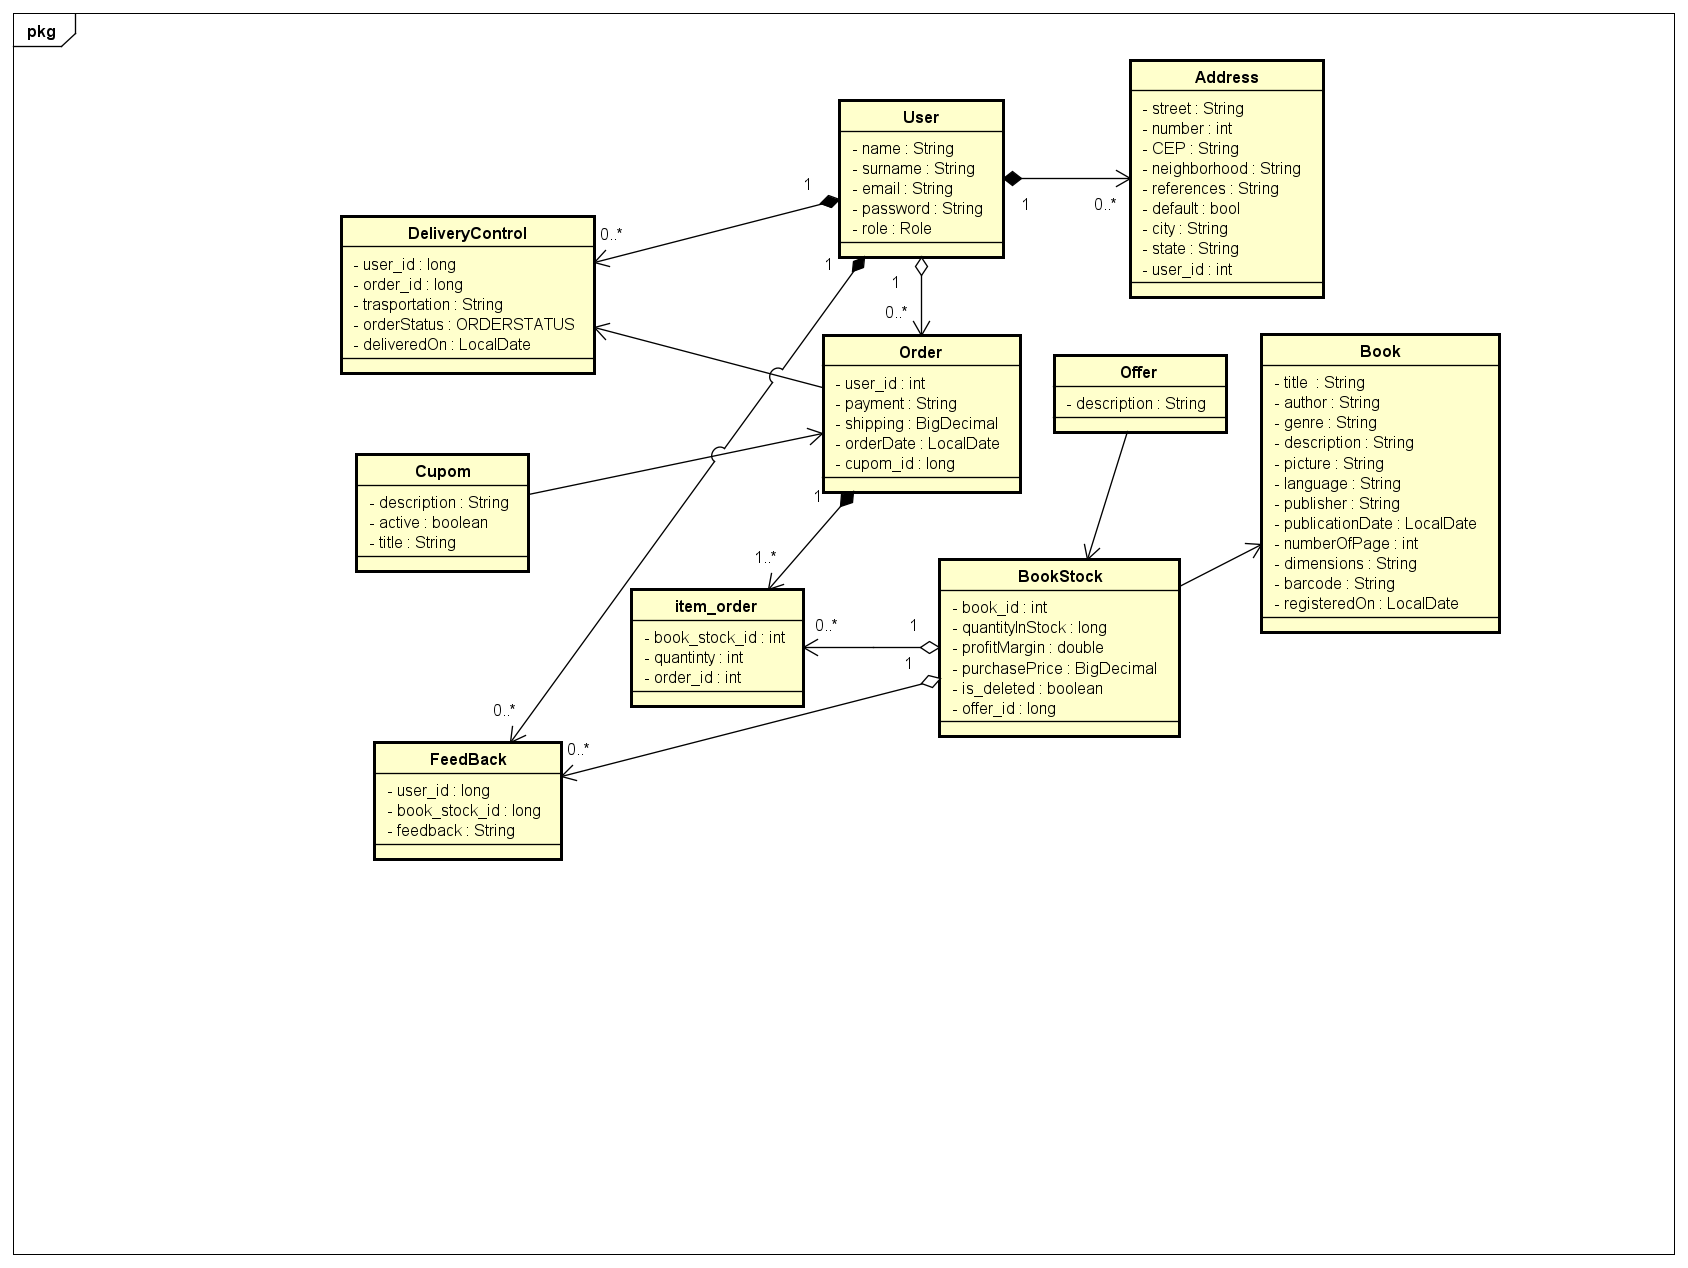
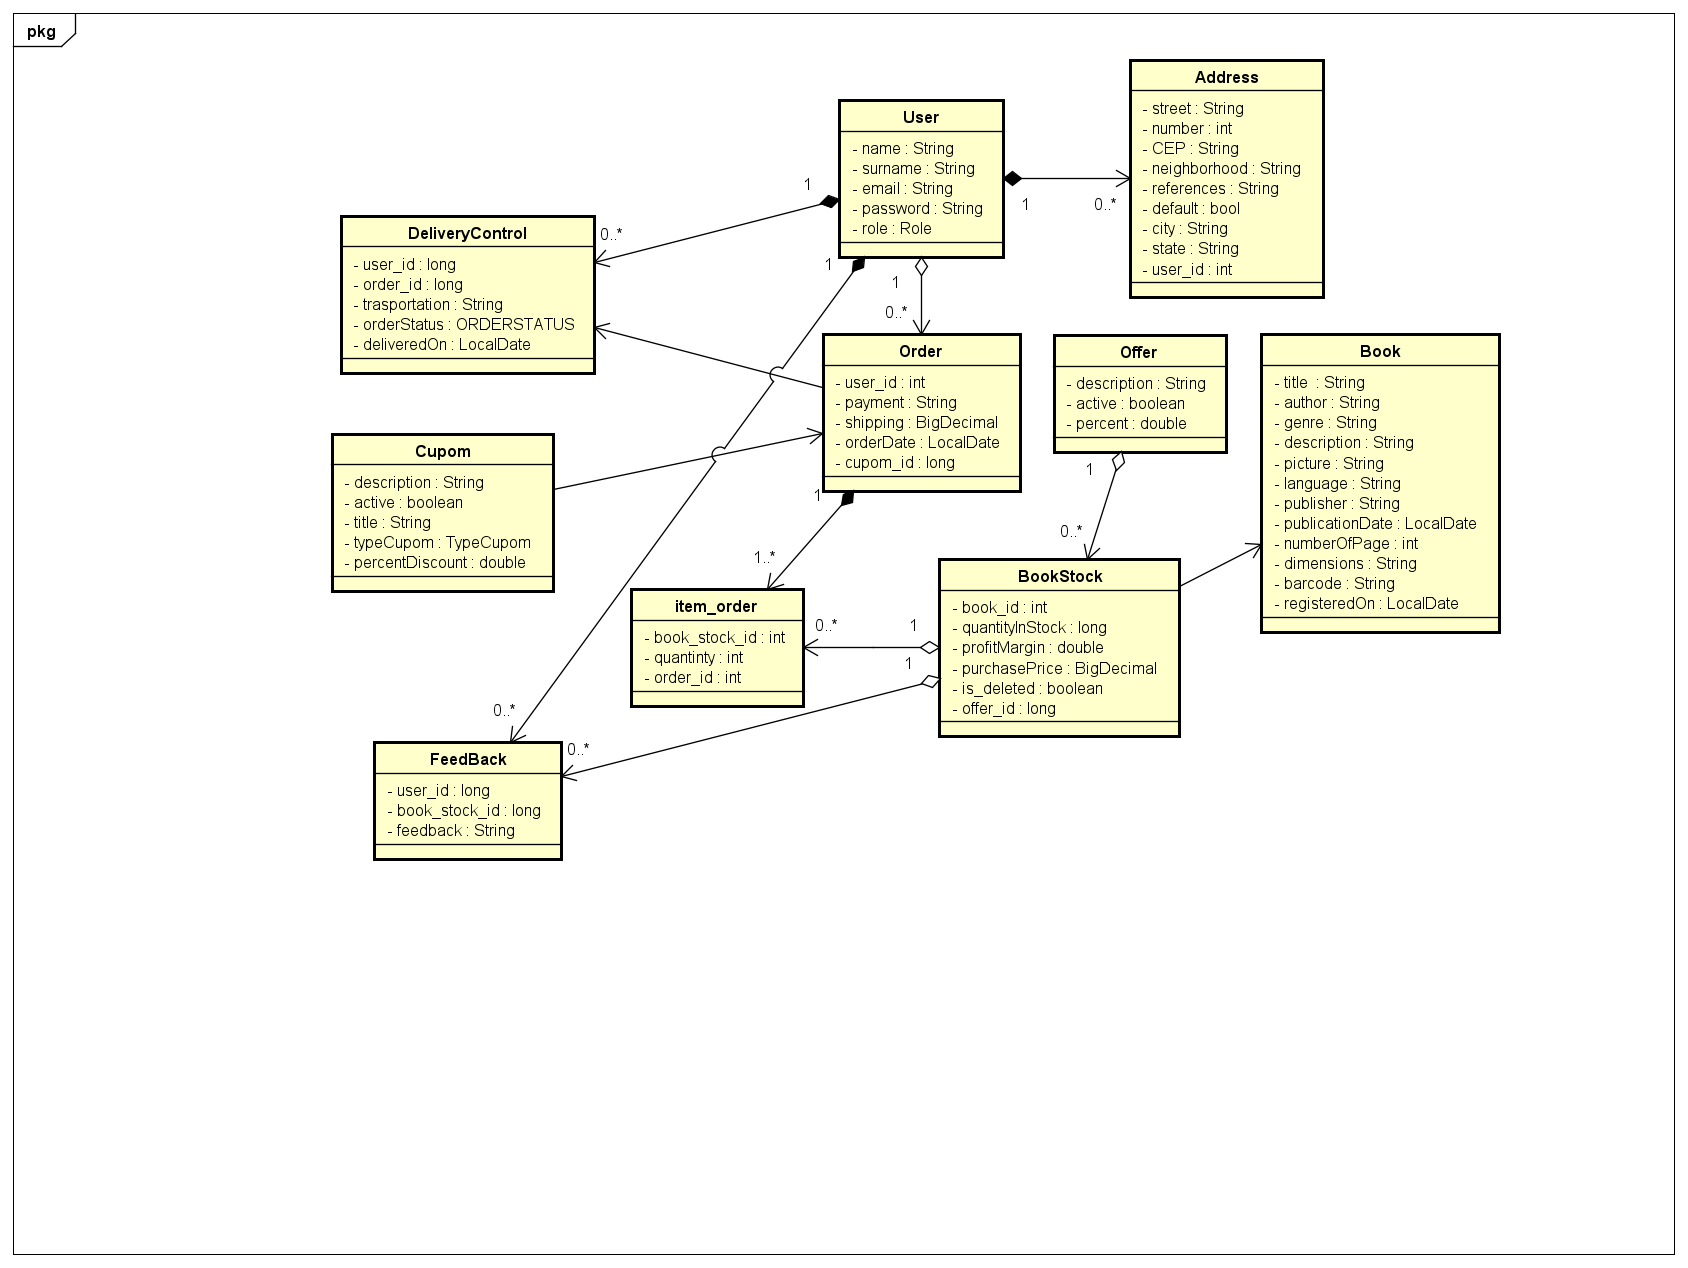
Mvp back end finalized

diff --git a/src/main/java/com/renigomes/api_livraria/purchase_order/service/OrderService.java b/src/main/java/com/renigomes/api_livraria/purchase_order/service/OrderService.java
@@ -8,6 +8,7 @@ import com.renigomes.api_livraria.cupom.enums.TypeCupom;
 import com.renigomes.api_livraria.cupom.model.Cupom;
 import com.renigomes.api_livraria.cupom.service.CupomService;
 import com.renigomes.api_livraria.purchase_order.DTO.ItemOrderRespDto;
+import com.renigomes.api_livraria.purchase_order.DTO.OfferOrderRespDto;
 import com.renigomes.api_livraria.purchase_order.DTO.OrderReqDTO;
 import com.renigomes.api_livraria.purchase_order.DTO.OrderRespDto;
 import com.renigomes.api_livraria.purchase_order.exceptions.ItemOrderException;
@@ -59,10 +60,18 @@ public class OrderService {
                                                     BigDecimal.valueOf(item.getBookStock().getProfitMargin())
                                             )
                                     ));
+                            bookRespOrderDto.setOfferOrderRespDto(item.getBookStock().getOffer() == null?
+                                    null:modelMapper.map(item.getBookStock().getOffer(), OfferOrderRespDto.class));
                             return new ItemOrderRespDto(
                                     bookRespOrderDto,
                                     item.getQuantity(),
                                     calculateSubTotal(item)
+                                            .subtract(
+                                                    item.getBookStock().getOffer() == null?
+                                                            BigDecimal.ZERO: BigDecimal.valueOf(
+                                                                    item.getBookStock().getOffer().getPercent()
+                                                    ).multiply(calculateSubTotal(item))
+                                            )
                             );
                         }
                 ).toList();
@@ -74,7 +83,8 @@ public class OrderService {
                 .map(ItemOrderRespDto::getSubTotalItem)
                 .reduce(BigDecimal.ZERO, BigDecimal::add)
                 .add(purOrder.getShipping().subtract(
-                        purOrder.getCupom().getTypeCupom() != TypeCupom.SHIPPING ?
+                        purOrder.getCupom()==null?BigDecimal.ZERO:
+                                purOrder.getCupom().getTypeCupom() != TypeCupom.SHIPPING ?
                                 BigDecimal.ZERO :
                                 purOrder.getShipping().multiply(
                                         BigDecimal.valueOf(purOrder.getCupom().getPercentDiscount())
@@ -143,7 +153,7 @@ public class OrderService {
                                 )
 
                 ));
-        orderRespDto.setCupom(new OrderCupomRespDto(purchaseOrder.getCupom().getCodeCupom()));
+        orderRespDto.setCupom(purchaseOrder.getCupom()==null?null:new OrderCupomRespDto(purchaseOrder.getCupom().getCodeCupom()));
         return orderRespDto;
     }
 

diff --git a/src/main/java/com/renigomes/api_livraria/book/service/BookStockService.java b/src/main/java/com/renigomes/api_livraria/book/service/BookStockService.java
@@ -3,7 +3,9 @@ package com.renigomes.api_livraria.book.service;
 import com.renigomes.api_livraria.DTO.RespIdDto;
 import com.renigomes.api_livraria.book.component.BookComponent;
 import com.renigomes.api_livraria.book.dto.BookRespDto;
+import com.renigomes.api_livraria.book.dto.BookStockRespAdminDTO;
 import com.renigomes.api_livraria.book.dto.BookStockRespUserDto;
+import com.renigomes.api_livraria.book.exception.BookOfferInative;
 import com.renigomes.api_livraria.book.exception.NotFoundException;
 import com.renigomes.api_livraria.book.model.Book;
 import com.renigomes.api_livraria.book.repository.BookRepository;
@@ -11,6 +13,8 @@ import com.renigomes.api_livraria.book.dto.BookStockReqDto;
 import com.renigomes.api_livraria.book.exception.UniqueTitleError;
 import com.renigomes.api_livraria.book.model.BookStock;
 import com.renigomes.api_livraria.book.repository.BookStockRepository;
+import com.renigomes.api_livraria.offer.model.Offer;
+import com.renigomes.api_livraria.offer.service.OfferService;
 import com.renigomes.api_livraria.user.component.UserComponent;
 import com.renigomes.api_livraria.user.enums.Role;
 import com.renigomes.api_livraria.user.model.User;
@@ -40,6 +44,7 @@ public class BookStockService {
     private BookRepository bookRepository;
     private BookStockRepository bookStockRepository;
     private UserComponent userComponent;
+    private OfferService offerService;
 
     private static NotFoundException get() {
         log.error(BOOK_OUT_OF_STOCK);
@@ -111,5 +116,20 @@ public class BookStockService {
                 .orElseThrow(BookStockService::get);
         bookStock.setDeleted(true);
         return bookStockRepository.save(bookStock);
+    }
+
+    @Transactional
+    public BookStockRespAdminDTO addOffer(Long offerId, long id_book_stock) {
+        Offer offer = offerService.findById(offerId);
+        BookStock bookStock = bookStockRepository.findById(id_book_stock).orElseThrow(
+                BookStockService::get
+        );
+        if (!offer.getActive())
+            throw new BookOfferInative("Offer not active!", HttpStatus.CONFLICT);
+        bookStock.setOffer(offer);
+        bookStock = bookStockRepository.save(bookStock);
+        BookStockRespAdminDTO bookStockRespAdminDTO = modelMapper.map(bookStock, BookStockRespAdminDTO.class);
+        bookStockRespAdminDTO.setBook(modelMapper.map(bookStock.getBook(), BookRespDto.class));
+        return bookStockRespAdminDTO;
     }
 }

diff --git a/src/main/java/com/renigomes/api_livraria/offer/service/OfferService.java b/src/main/java/com/renigomes/api_livraria/offer/service/OfferService.java
@@ -1,0 +1,58 @@
+package com.renigomes.api_livraria.offer.service;
+
+import com.renigomes.api_livraria.offer.DTO.OfferReqDto;
+import com.renigomes.api_livraria.offer.DTO.OfferRespDto;
+import com.renigomes.api_livraria.offer.exceptions.OfferNotFoundException;
+import com.renigomes.api_livraria.offer.model.Offer;
+import com.renigomes.api_livraria.offer.repository.OfferRepository;
+import lombok.AllArgsConstructor;
+import lombok.extern.slf4j.Slf4j;
+import org.modelmapper.ModelMapper;
+import org.springframework.http.HttpStatus;
+import org.springframework.stereotype.Service;
+import org.springframework.transaction.annotation.Transactional;
+
+import java.util.List;
+
+@Service
+@AllArgsConstructor
+@Slf4j
+public class OfferService {
+
+    private final ModelMapper modelMapper;
+    private final OfferRepository offerRepository;
+
+    @Transactional
+    public OfferRespDto save(OfferReqDto offerReqDto) {
+        Offer offer = modelMapper.map(offerReqDto, Offer.class);
+        offer = offerRepository.save(offer);
+        return modelMapper.map(offer, OfferRespDto.class);
+    }
+
+    @Transactional
+    public OfferRespDto setActive(Long offerId) {
+        Offer offer = offerRepository.findById(offerId).orElseThrow(
+                () -> {
+                    log.error("Offer not found !");
+                    return new OfferNotFoundException("Offer not found !", HttpStatus.NOT_FOUND);
+                }
+        );
+        offer.setActive(!offer.getActive());
+        return modelMapper.map(offer, OfferRespDto.class);
+    }
+
+    public List<OfferRespDto> findAll(){
+        List<Offer> offers = offerRepository.findAll();
+        return offers
+                .stream()
+                .map(offer -> modelMapper.map(offer, OfferRespDto.class))
+                .toList();
+    }
+
+    public Offer findById(Long id) {
+        return offerRepository.findById(id).orElseThrow( () ->{
+                log.error("Offer not found !");
+                return new OfferNotFoundException("Offer not found !", HttpStatus.NOT_FOUND);}
+        );
+    }
+}

diff --git a/src/main/java/com/renigomes/api_livraria/offer/controller/OfferController.java b/src/main/java/com/renigomes/api_livraria/offer/controller/OfferController.java
@@ -1,0 +1,56 @@
+package com.renigomes.api_livraria.offer.controller;
+
+import com.renigomes.api_livraria.offer.DTO.OfferReqDto;
+import com.renigomes.api_livraria.offer.DTO.OfferRespDto;
+import com.renigomes.api_livraria.offer.service.OfferService;
+import com.renigomes.api_livraria.security.SecurityConfig;
+import io.swagger.v3.oas.annotations.Operation;
+import io.swagger.v3.oas.annotations.security.SecurityRequirement;
+import io.swagger.v3.oas.annotations.tags.Tag;
+import jakarta.validation.Valid;
+import org.springframework.http.ResponseEntity;
+import org.springframework.web.bind.annotation.*;
+
+import java.util.List;
+
+@RestController
+@RequestMapping("api/offer")
+@Tag(name = "Offer")
+@SecurityRequirement(name = SecurityConfig.SECURITY)
+public class OfferController {
+
+    private final OfferService offerService;
+
+    public OfferController(OfferService offerService) {
+        this.offerService = offerService;
+    }
+
+    @Operation(
+            summary = "Find all offers",
+            description = "Method to find all offers"
+    )
+    @GetMapping
+    public ResponseEntity<List<OfferRespDto>> findAll(){
+        return ResponseEntity.ok(offerService.findAll());
+    }
+
+    @Operation(
+            summary = "Create new offer",
+            description = "Method to create a new offer"
+    )
+    @PostMapping
+    public ResponseEntity<OfferRespDto> create(@Valid @RequestBody OfferReqDto offerReqDto){
+        return ResponseEntity.ok(offerService.save(offerReqDto));
+    }
+
+    @Operation(
+            summary = "Setting active offer",
+            description = "Method to setting active offer"
+    )
+    @PatchMapping("/{id}")
+    public ResponseEntity<OfferRespDto> setActive(@PathVariable Long id){
+        return ResponseEntity.ok(offerService.setActive(id));
+    }
+
+
+}

diff --git a/src/main/java/com/renigomes/api_livraria/security/SecurityPermission.java b/src/main/java/com/renigomes/api_livraria/security/SecurityPermission.java
@@ -27,18 +27,22 @@ public class SecurityPermission {
             put(ADMIN, new HashMap<HttpMethod, String []>(){
                 {
                     put(HttpMethod.GET, new String[]{
-                            "/api/user"
+                            "/api/user",
+                            "api/offer"
                     });
                     put(HttpMethod.POST, new String[]{
                             "/api/user/register/admin",
                             "/api/book/**",
                             "/api/delivery_control",
-                            "api/cupom"
+                            "api/cupom",
+                            "api/offer"
                     });
                     put(HttpMethod.PATCH, new String[]{
                             "/api/book/activate/{id}",
                             "/api/delivery_control/{id_order}",
-                            "/api/cupom/{id}"
+                            "/api/cupom/{id}",
+                            "api/offer/{id}",
+                            "api/book/add_offer/{id}"
                     });
                     put(HttpMethod.PUT, new String[]{
                             "/api/book/{id}"

diff --git a/src/main/java/com/renigomes/api_livraria/book/controller/BookController.java b/src/main/java/com/renigomes/api_livraria/book/controller/BookController.java
@@ -9,6 +9,7 @@ import com.renigomes.api_livraria.book.exception.BookDeleteError;
 import com.renigomes.api_livraria.book.model.BookStock;
 import com.renigomes.api_livraria.book.service.BookService;
 import com.renigomes.api_livraria.book.service.BookStockService;
+import com.renigomes.api_livraria.offer.DTO.OfferReqDto;
 import com.renigomes.api_livraria.security.SecurityConfig;
 import com.renigomes.api_livraria.user.component.UserComponent;
 import com.renigomes.api_livraria.user.enums.Role;
@@ -120,6 +121,16 @@ public class BookController {
         log.error("Book stock could not be deleted!");
         throw new BookDeleteError("Book stock could not be deleted!", HttpStatus.INTERNAL_SERVER_ERROR);
     }
+
+    @Operation(
+            summary = "Add Offer",
+            description = "Method to add offer"
+    )
+    @PatchMapping("/add_offer/{id}")
+    public ResponseEntity<BookStockRespAdminDTO> addOffer(@PathVariable(name = "id") long id_book, @RequestParam Long id_offer){
+        return ResponseEntity.ok(bookStockService.addOffer(id_book, id_offer));
+    }
+
 
 
 

diff --git a/src/main/java/com/renigomes/api_livraria/exception_controller/ExceptionsHandler.java b/src/main/java/com/renigomes/api_livraria/exception_controller/ExceptionsHandler.java
@@ -7,6 +7,7 @@ import java.util.stream.Collectors;
 import com.renigomes.api_livraria.address.exceptions.AddressException;
 import com.renigomes.api_livraria.cupom.exceptions.CupomException;
 import com.renigomes.api_livraria.delivery_control.exceptions.DeliveryException;
+import com.renigomes.api_livraria.offer.exceptions.OfferException;
 import com.renigomes.api_livraria.purchase_order.exceptions.OrderException;
 import org.springframework.beans.factory.annotation.Autowired;
 import org.springframework.context.support.DefaultMessageSourceResolvable;
@@ -107,6 +108,15 @@ public class ExceptionsHandler extends ResponseEntityExceptionHandler {
                 e.getHttpStatus(),
                 e.getMessage(),
                 "http://localhost:8080/error/cupom"
+        );
+    }
+
+    @ExceptionHandler(OfferException.class)
+    public ProblemDetail offerException(OfferException e){
+        return exceptionConfig.problemDetailConfig(
+                e.getHttpStatus(),
+                e.getMessage(),
+                "http://localhost:8080/error/offer"
         );
     }
 

diff --git a/src/main/java/com/renigomes/api_livraria/book/service/BookService.java b/src/main/java/com/renigomes/api_livraria/book/service/BookService.java
@@ -1,6 +1,7 @@
 package com.renigomes.api_livraria.book.service;
 
 import com.renigomes.api_livraria.book.component.BookComponent;
+import com.renigomes.api_livraria.book.dto.BookStockRespAdminDTO;
 import com.renigomes.api_livraria.book.exception.NotFoundException;
 import com.renigomes.api_livraria.book.exception.OutStockException;
 import com.renigomes.api_livraria.book.model.Book;
@@ -11,6 +12,7 @@ import com.renigomes.api_livraria.user.component.UserComponent;
 import com.renigomes.api_livraria.user.enums.Role;
 import com.renigomes.api_livraria.user.model.User;
 import jakarta.servlet.http.HttpServletRequest;
+import jakarta.transaction.Transactional;
 import lombok.AllArgsConstructor;
 import lombok.extern.slf4j.Slf4j;
 import org.springframework.http.HttpStatus;

diff --git a/src/main/java/com/renigomes/api_livraria/book/dto/BookRespOrderDto.java b/src/main/java/com/renigomes/api_livraria/book/dto/BookRespOrderDto.java
@@ -1,6 +1,9 @@
 package com.renigomes.api_livraria.book.dto;
 
+import com.renigomes.api_livraria.offer.model.Offer;
+import com.renigomes.api_livraria.purchase_order.DTO.OfferOrderRespDto;
 import jakarta.validation.constraints.NotBlank;
+import jakarta.validation.constraints.NotNull;
 import lombok.AllArgsConstructor;
 import lombok.Getter;
 import lombok.NoArgsConstructor;
@@ -19,6 +22,6 @@ public class BookRespOrderDto {
     @NotBlank
     private  String picture;
     private BigDecimal price;
-
+    private OfferOrderRespDto offerOrderRespDto;
     
 }

diff --git a/src/main/java/com/renigomes/api_livraria/offer/model/Offer.java b/src/main/java/com/renigomes/api_livraria/offer/model/Offer.java
@@ -1,9 +1,6 @@
 package com.renigomes.api_livraria.offer.model;
 
-import jakarta.persistence.Entity;
-import jakarta.persistence.GeneratedValue;
-import jakarta.persistence.GenerationType;
-import jakarta.persistence.Id;
+import jakarta.persistence.*;
 import lombok.Getter;
 import lombok.Setter;
 
@@ -16,4 +13,7 @@ public class Offer {
     @GeneratedValue(strategy = GenerationType.IDENTITY)
     private Long id;
     private String title;
+    @Column (insertable = false)
+    private Boolean active;
+    private Double percent;
 }

diff --git a/src/main/java/com/renigomes/api_livraria/offer/DTO/OfferRespDto.java b/src/main/java/com/renigomes/api_livraria/offer/DTO/OfferRespDto.java
@@ -1,0 +1,23 @@
+package com.renigomes.api_livraria.offer.DTO;
+
+import jakarta.validation.constraints.NotBlank;
+import jakarta.validation.constraints.NotNull;
+import lombok.AllArgsConstructor;
+import lombok.Getter;
+import lombok.NoArgsConstructor;
+import lombok.Setter;
+
+@Getter
+@Setter
+@AllArgsConstructor
+@NoArgsConstructor
+public class OfferRespDto {
+    @NotNull
+    private Long id;
+    @NotBlank
+    private String title;
+    @NotNull
+    private Boolean active;
+    @NotNull
+    private Double percent;
+}

diff --git a/src/main/java/com/renigomes/api_livraria/book/dto/BookStockRespAdminDTO.java b/src/main/java/com/renigomes/api_livraria/book/dto/BookStockRespAdminDTO.java
@@ -2,6 +2,7 @@ package com.renigomes.api_livraria.book.dto;
 
 
 import com.renigomes.api_livraria.book.model.BookStock;
+import com.renigomes.api_livraria.offer.model.Offer;
 import jakarta.validation.constraints.NotNull;
 import jakarta.validation.constraints.Positive;
 import lombok.AllArgsConstructor;
@@ -38,5 +39,7 @@ public class BookStockRespAdminDTO implements Serializable {
     private BigDecimal salePrice;
     @NotNull
     private boolean isDeleted;
+    @NotNull
+    private Offer offer;
 
 }
